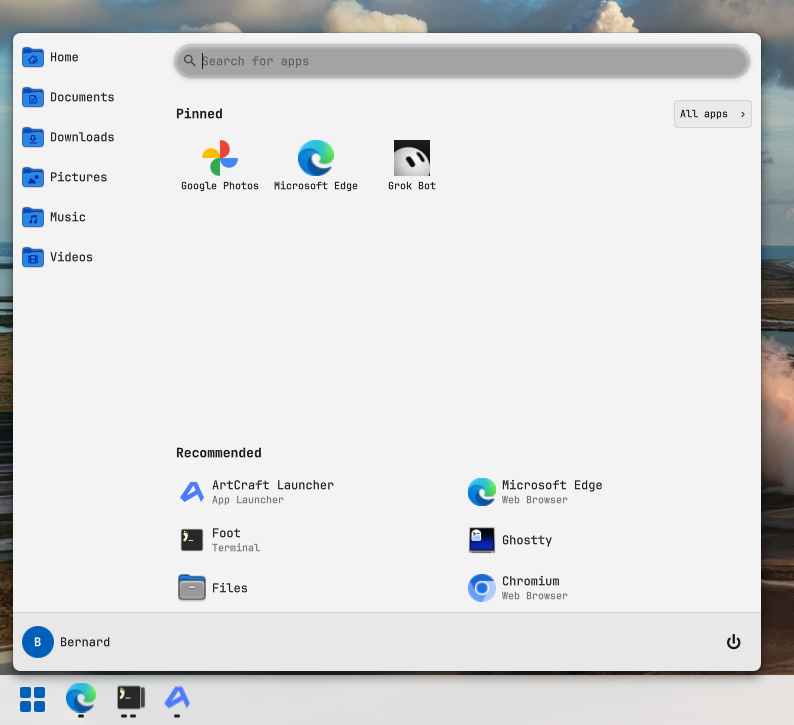
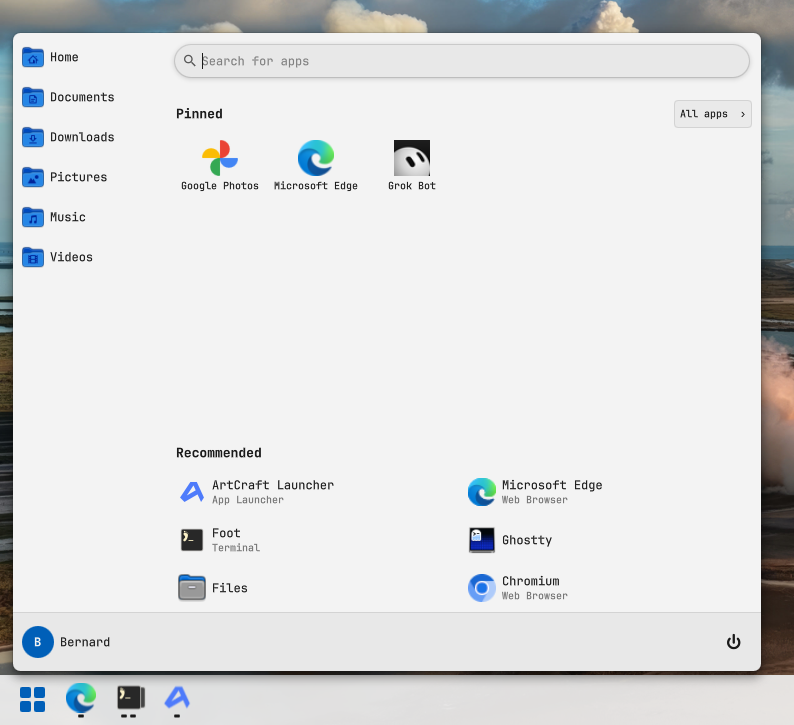
Restructure the README as a tour; add submenu, search and settings-page shots (#69)
* Restructure the README as a tour; add shots of the submenu, settings search and a second settings page

README: Install, Tour (taskbar, Start menu, previews, colours, icon menus),
Configure (Bar menu with its submenu, settings window with search),
Commands. Fixes the line that still named the removed "Omarchy menu on
Start" row.

scripts/screenshots.sh: new shots right-click-submenu, settings-windows
(previews off, so the dependent options are dimmed) and settings-search.
Each settings shot opens the window afresh, since changing shell.json
closes it. The shell's layout report now includes the Bar menu's submenu.

* Make the search boxes opaque so their shadow does not grey the inside

The shadow is a whole blurred shape behind the box; under the box's 5%
tint it showed through, which looked wrong in the light scheme. The tint
is now blended onto the menu's own colour, and the shadow is a little
lighter. Retake the shots that show a search box.

* Add a hero GIF touring the features, filmed with Omarchy's screen recorder

scripts/screenshots.sh --only hero: the real pointer and keys drive a tour
(a group's Preview, the Start menu and a search, the Bar menu and a
submenu, the settings window with a search and another page) while
omarchy-capture-screenrecording films the monitor; ffmpeg crops it and
makes a 1200 px GIF. It runs only when named. --install now copies GIFs
as well as PNGs.

* Make preview.png a collage of the features, retake the taskbar and Preview shots
[…]

Changed region(s): [[0.2116, 0.0607, 0.9673, 0.1214]]

diff --git a/Service.qml b/Service.qml
@@ -851,7 +851,7 @@ Item {
           radius: searchBox.radius
           blur: Style.space(6)
           offset.y: Style.space(1)
-          color: Qt.rgba(0, 0, 0, 0.3)
+          color: Qt.rgba(0, 0, 0, 0.22)
         }
 
         Rectangle {
@@ -860,7 +860,8 @@ Item {
           width: Math.min(Style.space(380), parent.width - Style.space(120))
           height: Style.space(34)
           radius: height / 2
-          color: Util.alpha(root.colPopupText, 0.05)
+          // Opaque, so the shadow behind it does not show through the box.
+          color: Qt.tint(root.colPopupBackground, Util.alpha(root.colPopupText, 0.05))
           border.width: 1
           border.color: Util.alpha(root.colPopupText, 0.12)
 
@@ -1712,6 +1713,10 @@ Item {
           menus: {
             item: ofPopup(contextMenu),
             bar: ofPopup(barMenu),
+            // Anchored to the Bar menu, so its place is relative to that window.
+            barSub: barSubMenu.visible ? rect(barMenu.relativeX + barSubMenu.relativeX + root.menuShadow,
+              barMenu.relativeY + barSubMenu.relativeY + root.menuShadow,
+              barSubMenu.implicitWidth - root.menuShadow * 2, barSubMenu.implicitHeight - root.menuShadow * 2) : null,
             preview: ofPopup(previewPopup),
             start: startMenu.visible ? rect(startMenu.x, startMenu.y, startMenu.width, startMenu.height) : null,
           },

diff --git a/StartMenuView.qml b/StartMenuView.qml
@@ -373,7 +373,7 @@ Item {
       radius: searchBox.radius
       blur: Style.space(6)
       offset.y: Style.space(1)
-      color: Qt.rgba(0, 0, 0, 0.3)
+      color: Qt.rgba(0, 0, 0, 0.22)
     }
 
     Rectangle {
@@ -387,7 +387,10 @@ Item {
       // window rounding, which many setups (this one included) set to 0,
       // and a sharp search box looks out of place.
       radius: height / 2
-      color: Util.alpha(startMenu.colText, 0.05)
+      // Opaque (the faint tint laid on the menu's own colour, not left see-
+      // through): the shadow behind it is a whole blurred shape, and under a
+      // see-through box it would grey the inside of the box.
+      color: Qt.tint(startMenu.colBackground, Util.alpha(startMenu.colText, 0.05))
       border.width: 1
       border.color: Util.alpha(startMenu.colText, 0.12)
 

diff --git a/README.md b/README.md
@@ -1,5 +1,5 @@
 <p align="center">
-  <img alt="StartBar: a taskbar with a Start menu for Omarchy" src="preview.png" />
+  <img alt="A tour of StartBar: window previews, the Start menu and its search, the right-click menu with a submenu, and the settings window with search" src="screenshots/hero.gif" width="900" />
 </p>
 
 <h1 align="center">StartBar</h1>
@@ -12,8 +12,9 @@
 
 <p align="center">
   <a href="#install">Install</a> ·
-  <a href="#features">Features</a> ·
+  <a href="#tour">Tour</a> ·
   <a href="#configure">Configure</a> ·
+  <a href="#commands">Commands</a> ·
   <a href="#update-and-remove">Update and remove</a> ·
   <a href="#contributing">Contributing</a>
 </p>
@@ -24,50 +25,42 @@
 omarchy plugin add https://github.com/bmaltais/StartBar --enable
 ```
 
-It shows a taskbar at the bottom of every monitor. Everything it needs comes with Omarchy; there is nothing else to install. The Start button opens StartBar's own Start menu, shown below; to open the Omarchy menu instead, right-click the bar and choose **Omarchy menu on Start**. The same menu turns on a clock.
+It shows a taskbar at the bottom of every monitor. Everything it needs comes with Omarchy; there is nothing else to install. The Start button opens StartBar's own Start menu. To open the Omarchy menu instead, right-click the bar, open **Start button** and choose **Open the Omarchy menu**.
 
-## Features
+## Tour
 
-| | |
-|---|---|
-| **Every window** | One icon per open window, across all workspaces and monitors. Click to jump to it. |
-| **Pins** | Keep apps in the bar whether or not they are running. Drag to reorder, drag out to unpin. |
-| **Start menu** | Search every installed app, a Pinned grid, an A-Z list, recently launched apps, your folders, and lock, sign out and power. |
-| **Hover previews** | Live window thumbnails with a close button. Hovering one shows that window, even from behind a maximized one, and moving away puts things back. |
-| **Grouped windows** | Optionally stack an app's windows into one icon and pick the window from the previews, as on Windows. |
-| **Right-click menus** | The app's own actions, plus Maximize, Full screen, Float, Move to scratchpad and Close. |
-| **Follows your theme** | Colours and fonts track the current Omarchy theme live, or pick a fixed light or dark bar. |
+### The taskbar
+
+<img src="screenshots/taskbar.png" alt="A full-width taskbar with a Start button, pinned apps and open windows">
+
+- **Every window.** One icon per open window, across all workspaces and monitors. Click to jump to it.
+- **Pins.** Keep apps in the bar whether or not they are running. Drag to reorder, drag out to unpin.
+- **Grouped windows.** Optionally stack an app's windows into one icon and pick the window from the previews, as on Windows.
+- **Extras.** Auto-hide, a clock, a workspace badge over each icon, a transparent bar, and an option to open each new window on a workspace of its own.
+
+### The Start menu
 
 <table>
-  <tr>
-    <th>Start menu</th>
-    <th>Search</th>
-  </tr>
   <tr valign="top">
     <td><img src="screenshots/start-menu.png" alt="The Start menu with pinned apps, recommended apps and folders"></td>
     <td><img src="screenshots/search.png" alt="Typing in the Start menu filters every installed app"></td>
   </tr>
-  <tr>
-    <th colspan="2">Taskbar</th>
-  </tr>
-  <tr valign="top">
-    <td colspan="2"><img src="screenshots/taskbar.png" alt="A full-width taskbar with a Start button, pinned apps and open windows"></td>
-  </tr>
 </table>
+
+Search every installed app, a Pinned grid you can reorder, an A-Z list, recently launched apps, your folders, and lock, sign out and power. Bind a key to toggle it, then type to search, use the arrow keys to move and Enter to launch. Escape backs out one step at a time.
+
+### Hover previews
+
+<img src="screenshots/preview.png" alt="Hovering a grouped icon shows one thumbnail per window to pick from" width="473">
+
+Live window thumbnails with a close button. Hovering one shows that window, even from behind a maximized one, and moving away puts things back.
+
+### Colours
 
 <table>
   <tr>
-    <th>Grouped windows</th>
-  </tr>
-  <tr valign="top">
-    <td><img src="screenshots/preview.png" alt="Hovering a grouped icon shows one thumbnail per window to pick from" width="473"></td>
-  </tr>
-</table>
-
-<table>
-  <tr>
-    <th>Light colours</th>
-    <th>Dark colours</th>
+    <th>Light</th>
+    <th>Dark</th>
   </tr>
   <tr valign="top">
     <td><img src="screenshots/start-menu-light.png" alt="The taskbar and Start menu with the fixed light colours"></td>
@@ -75,23 +68,11 @@ It shows a taskbar at the bottom of every monitor. Everything it needs comes wit
   </tr>
 </table>
 
-### Start menu from the keyboard
+Colours and fonts follow the current Omarchy theme live, or pick a fixed light or dark bar.
 
-Bind a key to toggle the menu, then type to search, use the arrow keys to move and Enter to launch. Escape backs out one step at a time.
+### Right-click an icon
 
-```sh
-omarchy-shell io.github.bmaltais.startbar startMenu
-```
-
-## Configure
-
-Right-click an empty part of the bar for the common options. Its last row, **Settings…**, opens a window with a control for every option. You can also open that window with:
-
-```sh
-omarchy-shell io.github.bmaltais.startbar settings
-```
-
-Right-click an icon for its own menu. A pin with no windows offers the app's actions, the app itself and **Unpin from taskbar**; a running app adds its window actions, then the app and **Pin to taskbar**, and ends with **Close window** (**Close all windows** for a stack of several).
+Each icon has its own menu. A pin with no windows offers the app's actions, the app itself and **Unpin from taskbar**; a running app adds its window actions (Maximize, Full screen, Float, Move to scratchpad), then the app and **Pin to taskbar**, and ends with **Close window** (**Close all windows** for a stack of several).
 
 <table>
   <tr>
@@ -104,18 +85,38 @@ Right-click an icon for its own menu. A pin with no windows offers the app's act
   </tr>
 </table>
 
+## Configure
+
+Changes apply as you make them. There are two ways in.
+
+### Right-click the bar
+
+The common options, kept short: icon alignment, colours, the Start button and window previews open a submenu beside them, and the everyday toggles (auto-hide, clock, group windows, workspace badge, transparent background) sit below. Options that mean nothing while another is off are dimmed. The last row, **Settings…**, opens the full window.
+
+<img src="screenshots/right-click-submenu.png" alt="The bar's right-click menu with the Start button submenu open" width="440">
+
+### The settings window
+
+A control for every option, laid out like the Windows 11 settings: a search box at the top, the pages down the left (Taskbar, Windows, Start menu) and the chosen page on the right. Drag the title bar to move it. Options that follow another one are indented and dimmed while it is off.
+
+<img src="screenshots/settings.png" alt="The settings window: a search box on top, the pages down the left, the chosen page's options on the right" width="600">
+
 <table>
   <tr>
-    <th>Right-click the bar</th>
-    <th>Settings window</th>
+    <th>Another page</th>
+    <th>Search</th>
   </tr>
   <tr valign="top">
-    <td><img src="screenshots/right-click.png" alt="The bar's right-click menu: sections for icon alignment, colours, the Start button and window previews, then toggles and Settings" width="250"></td>
-    <td><img src="screenshots/settings.png" alt="The settings window: a search box on top, the pages down the left, the chosen page's options on the right" width="560"></td>
+    <td><img src="screenshots/settings-windows.png" alt="The Windows page, with the preview options dimmed because previews are off"></td>
+    <td><img src="screenshots/settings-search.png" alt="Typing icon in the search box lists the matching settings from every page"></td>
   </tr>
 </table>
 
-Changes apply as you make them. Everything is saved in StartBar's own entry in `~/.config/omarchy/shell.json`, which you can also edit by hand:
+Type in the search box to find a setting on any page: every word must appear in a setting's name or description, or in its page's name.
+
+### shell.json
+
+Everything is saved in StartBar's own entry in `~/.config/omarchy/shell.json`, which you can also edit by hand:
 
 ```json
 {
@@ -130,6 +131,17 @@ Changes apply as you make them. Everything is saved in StartBar's own entry in `
 ```
 
 Every key, its default, and how pinning and dragging behave are in [docs/SETTINGS.md](docs/SETTINGS.md).
+
+## Commands
+
+Run these with `omarchy-shell io.github.bmaltais.startbar <command>`, for instance from a key binding:
+
+| Command | Does |
+|---|---|
+| `startMenu` | Toggles the Start menu on the focused monitor |
+| `closeStartMenu` | Closes it |
+| `settings` | Opens the settings window on the focused monitor |
+| `closeSettings` | Closes it |
 
 ## Update and remove
 

diff --git a/CONTRIBUTING.md b/CONTRIBUTING.md
@@ -101,7 +101,7 @@ It restarts the shell with this checkout, fails if the plugin logs anything, and
 
 ### Retaking screenshots
 
-The README images are in `screenshots/`. Retake one only when its subject changed: a new row in the settings window changes `settings.png`; a new look for the Dock or Start menu changes `taskbar.png` and the `start-menu*.png` and `search.png` files; the Preview and the bar's menu have `preview.png` and `right-click.png`; an icon's menu has `pin-menu.png` and `window-menu.png`.
+The README images are in `screenshots/`. Retake one only when its subject changed: a new row in the settings window changes `settings.png`; a new look for the Dock or Start menu changes `taskbar.png` and the `start-menu*.png` and `search.png` files; the Preview and the bar's menu have `preview.png` and `right-click.png`; an icon's menu has `pin-menu.png` and `window-menu.png`. `screenshots/hero.gif`, the tour at the top of the README, is retaken with `scripts/screenshots.sh --only hero --install`; it films the screen with Omarchy's recorder (`omarchy-capture-screenrecording`) while the script drives the pointer, and it needs retaking when any step of the tour changes. It is not part of a plain run. `preview.png` at the repo root is the marketplace's picture: a collage of the shots, composed by `scripts/make-preview.sh`; rerun it after retaking any shot it uses (the Start menu, settings, submenu, Preview and taskbar).
 
 Run `scripts/screenshots.sh` (needs `ydotool`; see `docs/hyprland-notes.md` "Moving the pointer"). It retakes every image the same way: on an empty workspace, with two throwaway windows for the Preview, the real pointer for the hover and the right-click, and every image framed the same way: the subject plus a 32 px margin of wallpaper on each side (the Dock, and what stands on it, run on to the monitor's bottom edge). It finds the Items and menus with `omarchy-shell io.github.bmaltais.startbar layout`, which prints the Dock's Items and any open menu (including the Start menu) as JSON rectangles in pixels from the monitor's top-left corner (use it from your own pointer scripts too). It leaves the results in a scratch directory and prints each size beside the file it would replace; `--only NAME,NAME` takes some, `--install` copies them over `screenshots/`. Look at every image before committing it: the Dock shows your pins and open windows, and the wallpaper and theme are yours, so the images change from release to release for those reasons alone. The Preview shows the throwaway windows' group with a letter tile, not an App's icon.
 
